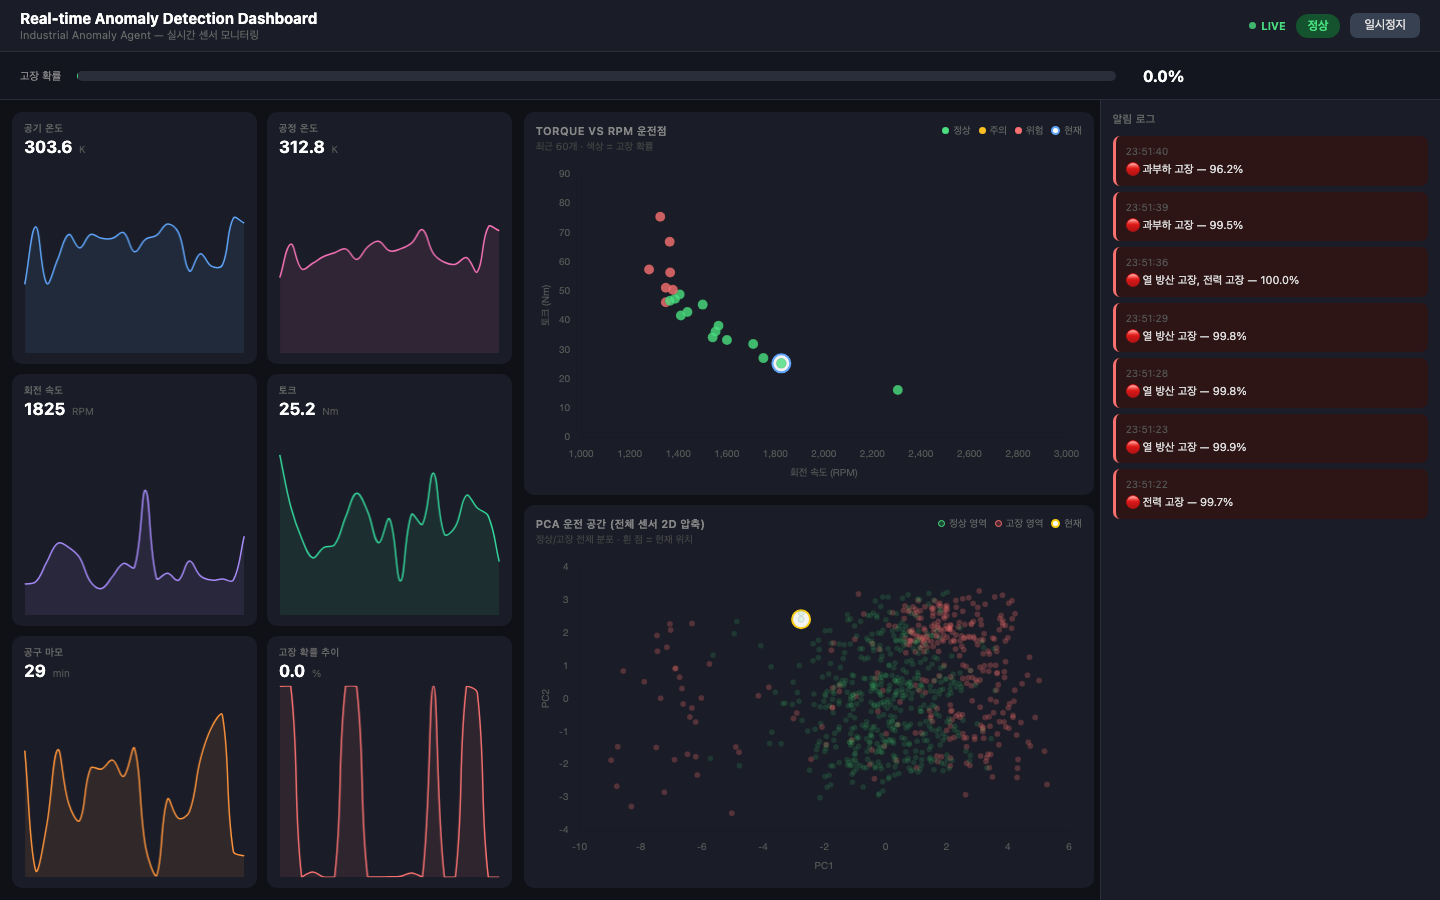
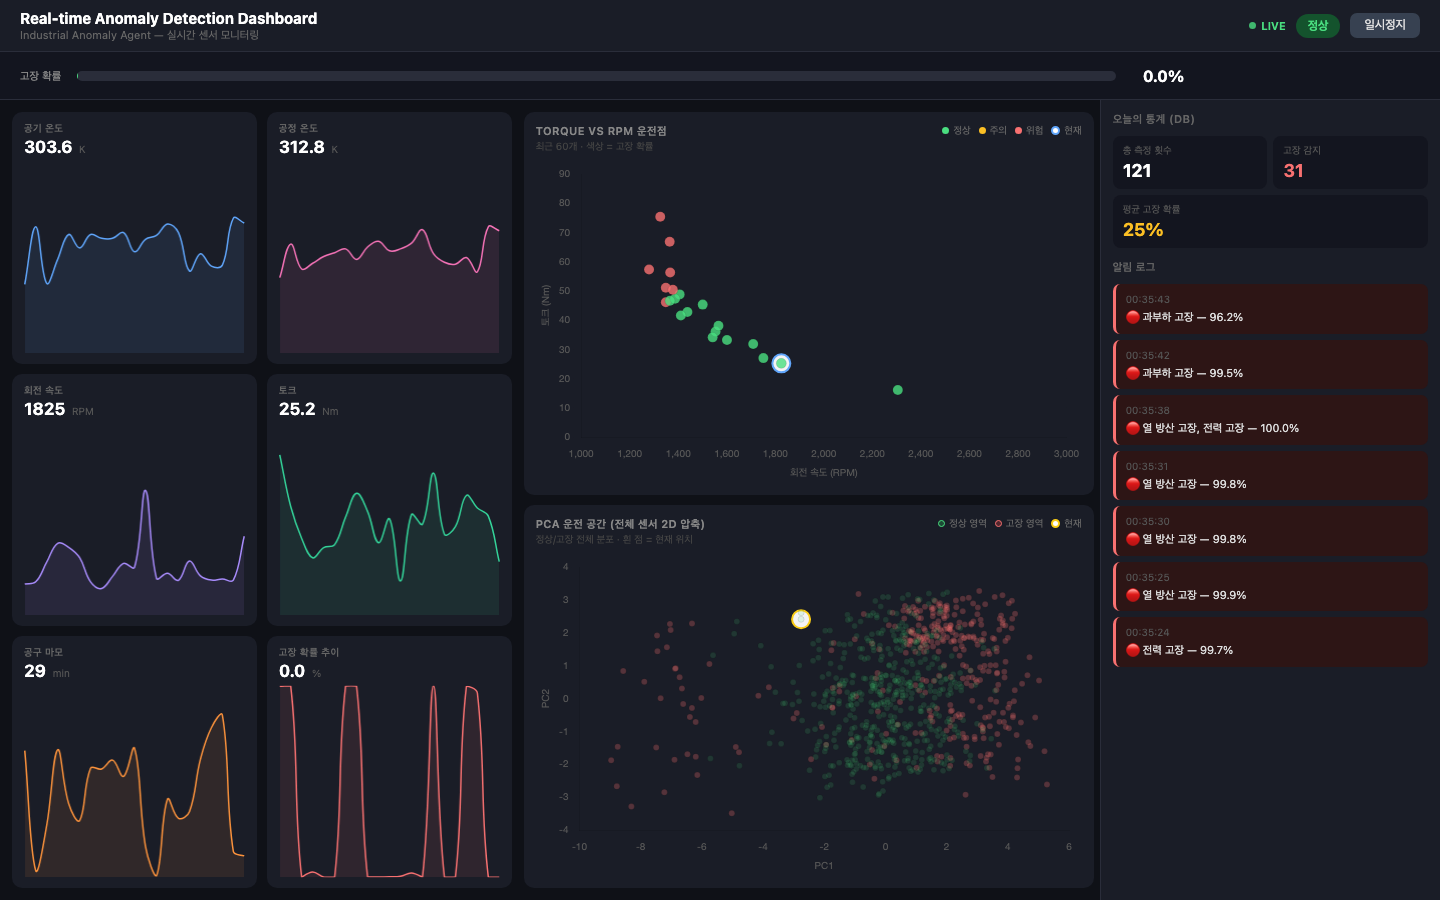
Add PostgreSQL DB history storage with stats dashboard panel

Changed region(s): [[0.75, 0.1244, 1.0, 0.7467]]

diff --git a/app/static/dashboard.html b/app/static/dashboard.html
@@ -69,6 +69,12 @@
     .alert-warn   { background:#2d2315; border-left:3px solid #fbbf24; }
     .alert-time { color:#555; font-size:10px; margin-bottom:2px; }
     .alert-msg  { color:#ddd; }
+    .stats-grid { display:grid; grid-template-columns:1fr 1fr; gap:6px; margin-bottom:12px; flex-shrink:0; }
+    .stat-box { background:#13151f; border-radius:8px; padding:8px 10px; }
+    .stat-label { font-size:10px; color:#555; margin-bottom:3px; }
+    .stat-value { font-size:18px; font-weight:700; color:#fff; }
+    .stat-value.danger { color:#f87171; }
+    .stat-value.warn { color:#fbbf24; }
   </style>
 </head>
 <body>
@@ -162,8 +168,23 @@
     </div>
   </div>
 
-  <!-- 오른쪽: 알림 로그 -->
+  <!-- 오른쪽: 스탯 + 알림 로그 -->
   <div class="col-alerts">
+    <div class="alert-title">오늘의 통계 (DB)</div>
+    <div class="stats-grid">
+      <div class="stat-box">
+        <div class="stat-label">총 측정 횟수</div>
+        <div class="stat-value" id="stat-total">—</div>
+      </div>
+      <div class="stat-box">
+        <div class="stat-label">고장 감지</div>
+        <div class="stat-value danger" id="stat-failures">—</div>
+      </div>
+      <div class="stat-box" style="grid-column:1/-1">
+        <div class="stat-label">평균 고장 확률</div>
+        <div class="stat-value warn" id="stat-avg">—</div>
+      </div>
+    </div>
     <div class="alert-title">알림 로그</div>
     <div class="alert-log" id="alert-log"></div>
   </div>
@@ -317,6 +338,17 @@
     document.querySelector(".btn-stop").textContent = paused ? "재개" : "일시정지";
     if (!paused && ws.readyState !== WebSocket.OPEN) connect();
   }
+
+  // DB 스탯 10초마다 갱신
+  function refreshStats() {
+    fetch("/api/stats").then(r => r.json()).then(d => {
+      document.getElementById("stat-total").textContent    = d.total.toLocaleString();
+      document.getElementById("stat-failures").textContent = d.failures.toLocaleString();
+      document.getElementById("stat-avg").textContent      = d.avg_prob + "%";
+    }).catch(() => {});
+  }
+  refreshStats();
+  setInterval(refreshStats, 10000);
 
   connect();
 </script>

diff --git a/app/database.py b/app/database.py
@@ -1,0 +1,109 @@
+import json
+from datetime import datetime
+from sqlalchemy import create_engine, Column, Integer, Float, Boolean, String, DateTime, text
+from sqlalchemy.orm import declarative_base, sessionmaker
+from app.config import settings
+
+is_sqlite = settings.database_url.startswith("sqlite")
+engine = create_engine(
+    settings.database_url,
+    pool_pre_ping=not is_sqlite,
+    connect_args={"check_same_thread": False} if is_sqlite else {},
+)
+SessionLocal = sessionmaker(bind=engine)
+Base = declarative_base()
+
+
+class SensorLog(Base):
+    __tablename__ = "sensor_logs"
+
+    id                  = Column(Integer, primary_key=True, index=True)
+    ts                  = Column(DateTime, default=datetime.utcnow, index=True)
+    air_temperature     = Column(Float)
+    process_temperature = Column(Float)
+    rotational_speed    = Column(Float)
+    torque              = Column(Float)
+    tool_wear           = Column(Float)
+    machine_type        = Column(String(1))
+    failure_probability = Column(Float)
+    failure_predicted   = Column(Boolean)
+    failure_types       = Column(String)  # JSON 문자열
+
+
+def init_db():
+    Base.metadata.create_all(bind=engine)
+
+
+def save_log(sensors: dict, prediction: dict):
+    db = SessionLocal()
+    try:
+        log = SensorLog(
+            air_temperature     = sensors["air_temperature"],
+            process_temperature = sensors["process_temperature"],
+            rotational_speed    = sensors["rotational_speed"],
+            torque              = sensors["torque"],
+            tool_wear           = sensors["tool_wear"],
+            machine_type        = sensors["machine_type"],
+            failure_probability = prediction["failure_probability"],
+            failure_predicted   = prediction["failure_predicted"],
+            failure_types       = json.dumps(prediction["failure_types"], ensure_ascii=False),
+        )
+        db.add(log)
+        db.commit()
+    finally:
+        db.close()
+
+
+def get_history(limit: int = 100):
+    db = SessionLocal()
+    try:
+        rows = db.query(SensorLog).order_by(SensorLog.ts.desc()).limit(limit).all()
+        return [
+            {
+                "id": r.id,
+                "ts": r.ts.strftime("%Y-%m-%d %H:%M:%S"),
+                "air_temperature": r.air_temperature,
+                "process_temperature": r.process_temperature,
+                "rotational_speed": r.rotational_speed,
+                "torque": r.torque,
+                "tool_wear": r.tool_wear,
+                "machine_type": r.machine_type,
+                "failure_probability": r.failure_probability,
+                "failure_predicted": r.failure_predicted,
+                "failure_types": json.loads(r.failure_types or "[]"),
+            }
+            for r in rows
+        ]
+    finally:
+        db.close()
+
+
+def get_stats():
+    db = SessionLocal()
+    try:
+        today = datetime.utcnow().date()
+        if is_sqlite:
+            result = db.execute(text("""
+                SELECT
+                    COUNT(*) AS total,
+                    SUM(CASE WHEN failure_predicted THEN 1 ELSE 0 END) AS failures,
+                    ROUND(AVG(failure_probability), 1) AS avg_prob
+                FROM sensor_logs
+                WHERE DATE(ts) = :today
+            """), {"today": str(today)}).fetchone()
+        else:
+            result = db.execute(text("""
+                SELECT
+                    COUNT(*) AS total,
+                    SUM(CASE WHEN failure_predicted THEN 1 ELSE 0 END) AS failures,
+                    ROUND(AVG(failure_probability)::numeric, 1) AS avg_prob
+                FROM sensor_logs
+                WHERE ts::date = :today
+            """), {"today": today}).fetchone()
+        return {
+            "total": result.total or 0,
+            "failures": result.failures or 0,
+            "avg_prob": float(result.avg_prob or 0),
+        }
+    finally:
+        db.close()

diff --git a/app/main.py b/app/main.py
@@ -3,8 +3,7 @@ import json
 from datetime import datetime
 from fastapi import FastAPI, HTTPException, WebSocket, WebSocketDisconnect
 from fastapi.staticfiles import StaticFiles
-from fastapi.responses import FileResponse
-from fastapi.responses import JSONResponse
+from fastapi.responses import FileResponse, JSONResponse
 from app.schemas import SensorInput, PredictionResult
 from app.model import predict
 from app.agent import explain
@@ -15,6 +14,15 @@ app = FastAPI(title="Industrial Anomaly Agent", version="0.1.0")
 
 static_dir = os.path.join(os.path.dirname(__file__), "static")
 app.mount("/static", StaticFiles(directory=static_dir), name="static")
+
+
+@app.on_event("startup")
+def startup():
+    try:
+        from app.database import init_db
+        init_db()
+    except Exception as e:
+        print(f"DB 연결 실패 (DB 없이 실행): {e}")
 
 
 @app.get("/")
@@ -29,9 +37,10 @@ def dashboard():
 
 @app.get("/api/pca-background")
 def pca_background():
-    import pickle, pandas as pd
+    import pickle
+    import pandas as pd
     from app.config import settings
-    from app.model import _preprocess, FEATURES, FAILURE_COLS
+    from app.model import _preprocess, FEATURES
 
     with open(settings.model_path, "rb") as f:
         bundle = pickle.load(f)
@@ -47,14 +56,31 @@ def pca_background():
     X_scaled = scaler.transform(X)
     coords = pca.transform(X_scaled)
 
-    # 정상 500개, 고장 전체 샘플링
     normal_idx  = y[y == 0].sample(500, random_state=42).index
     failure_idx = y[y == 1].index
 
-    normal_pts  = [{"x": round(float(coords[i][0]),3), "y": round(float(coords[i][1]),3)} for i in normal_idx]
-    failure_pts = [{"x": round(float(coords[i][0]),3), "y": round(float(coords[i][1]),3)} for i in failure_idx]
+    normal_pts  = [{"x": round(float(coords[i][0]), 3), "y": round(float(coords[i][1]), 3)} for i in normal_idx]
+    failure_pts = [{"x": round(float(coords[i][0]), 3), "y": round(float(coords[i][1]), 3)} for i in failure_idx]
 
     return JSONResponse({"normal": normal_pts, "failure": failure_pts})
+
+
+@app.get("/api/history")
+def history(limit: int = 100):
+    try:
+        from app.database import get_history
+        return JSONResponse(get_history(limit))
+    except Exception as e:
+        raise HTTPException(status_code=500, detail=str(e))
+
+
+@app.get("/api/stats")
+def stats():
+    try:
+        from app.database import get_stats
+        return JSONResponse(get_stats())
+    except Exception as e:
+        raise HTTPException(status_code=500, detail=str(e))
 
 
 @app.get("/health")
@@ -98,6 +124,15 @@ async def stream(websocket: WebSocket):
         while True:
             sensor = next_row()
             prediction = predict(sensor)
+
+            # DB 저장 (실패해도 스트림은 계속)
+            try:
+                from app.database import save_log
+                await asyncio.get_event_loop().run_in_executor(
+                    None, save_log, sensor, prediction
+                )
+            except Exception:
+                pass
 
             await websocket.send_text(json.dumps({
                 "timestamp": datetime.now().strftime("%H:%M:%S"),

diff --git a/app/config.py b/app/config.py
@@ -6,6 +6,7 @@ class Settings(BaseSettings):
     llm_model: str = "gpt-4o-mini"
     model_path: str = "models/anomaly_model.pkl"
     data_path: str = "data/ai4i2020.csv"
+    database_url: str = "sqlite:///./anomaly.db"  # Docker에선 .env로 PostgreSQL URL 주입
 
     class Config:
         env_file = ".env"
